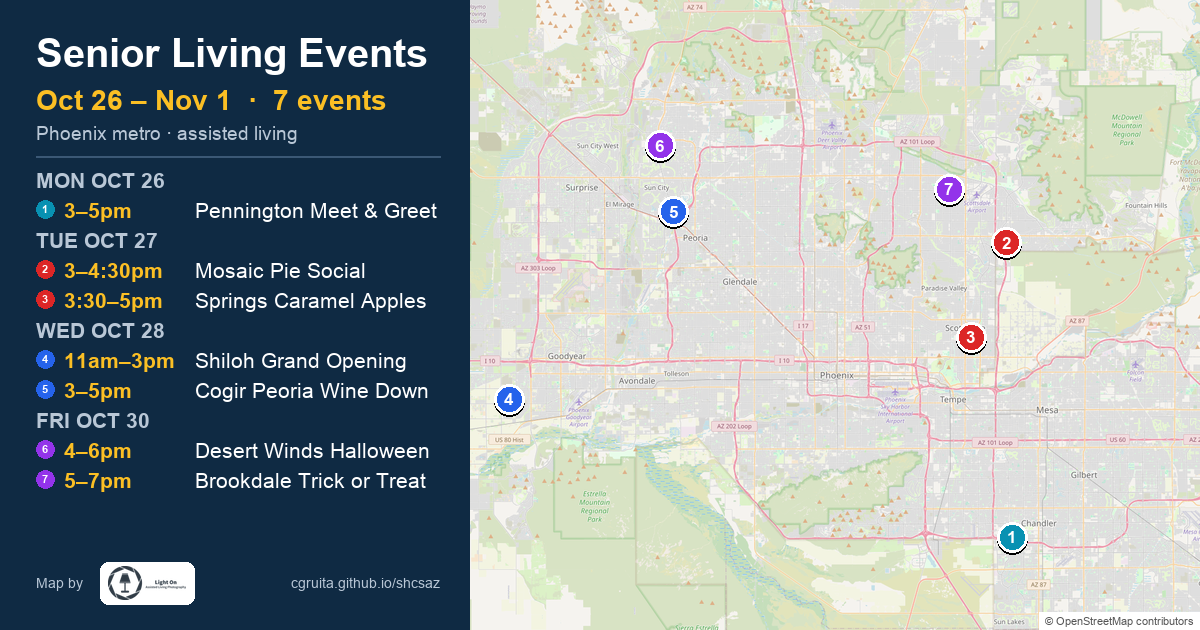
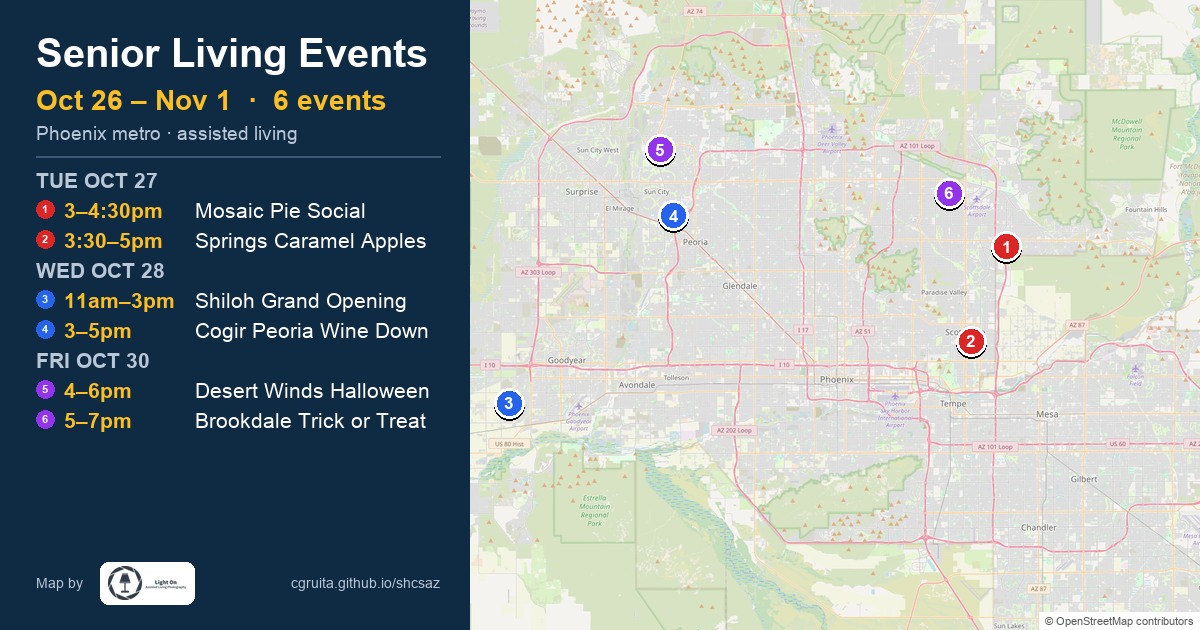
Week of Oct 26, 2026-10-26-3

diff --git a/index.html b/index.html
@@ -4,23 +4,23 @@
   <meta charset="UTF-8" />
   <title>Phoenix Metro Weekly Assisted Living Events</title>
   <!-- og:start (generated by scripts/build_preview.py) -->
-  <meta name="description" content="Oct 26 – Nov 1 · 7 assisted living events across the Valley" />
+  <meta name="description" content="Oct 26 – Nov 1 · 6 assisted living events across the Valley" />
   <meta property="og:type" content="website" />
   <meta property="og:title" content="Senior Living Events · Oct 26 – Nov 1" />
-  <meta property="og:description" content="Oct 26 – Nov 1 · 7 assisted living events across the Valley" />
+  <meta property="og:description" content="Oct 26 – Nov 1 · 6 assisted living events across the Valley" />
   <meta property="og:url" content="https://cgruita.github.io/shcsaz/" />
-  <meta property="og:image" content="https://cgruita.github.io/shcsaz/images/preview.png?v=2026-10-26-2" />
+  <meta property="og:image" content="https://cgruita.github.io/shcsaz/images/preview.png?v=2026-10-26-3" />
   <meta property="og:image:width" content="1200" />
   <meta property="og:image:height" content="630" />
   <meta name="twitter:card" content="summary_large_image" />
   <meta name="twitter:title" content="Senior Living Events · Oct 26 – Nov 1" />
-  <meta name="twitter:description" content="Oct 26 – Nov 1 · 7 assisted living events across the Valley" />
-  <meta name="twitter:image" content="https://cgruita.github.io/shcsaz/images/preview.png?v=2026-10-26-2" />
+  <meta name="twitter:description" content="Oct 26 – Nov 1 · 6 assisted living events across the Valley" />
+  <meta name="twitter:image" content="https://cgruita.github.io/shcsaz/images/preview.png?v=2026-10-26-3" />
   <!-- og:end -->
   <meta name="viewport" content="width=device-width, initial-scale=1" />
   <link href="https://api.mapbox.com/mapbox-gl-js/v3.6.0/mapbox-gl.css" rel="stylesheet" />
   <link href="vendor/leaflet/leaflet.css" rel="stylesheet" />
-  <link href="css/styles.css?v=2026-10-26-2" rel="stylesheet" />
+  <link href="css/styles.css?v=2026-10-26-3" rel="stylesheet" />
 </head>
 <body>
   <header>
@@ -89,7 +89,7 @@
     })();
   </script>
   <script src="https://api.mapbox.com/mapbox-gl-js/v3.6.0/mapbox-gl.js"></script>
-  <script src="js/config.js?v=2026-10-26-2"></script>
-  <script src="js/map.js?v=2026-10-26-2"></script>
+  <script src="js/config.js?v=2026-10-26-3"></script>
+  <script src="js/map.js?v=2026-10-26-3"></script>
 </body>
 </html>

diff --git a/js/config.js b/js/config.js
@@ -1,2 +1,2 @@
 const MAPBOX_TOKEN = "pk.eyJ1IjoiY2dydWl0YSIsImEiOiJjbXRhanNoYzkwMGRrMndvYnQ5OWFvcHZoIn0.IXzPp--fY9nrZjRw5MfD2A";
-const MAP_VERSION = "2026-10-26-2";
+const MAP_VERSION = "2026-10-26-3";
